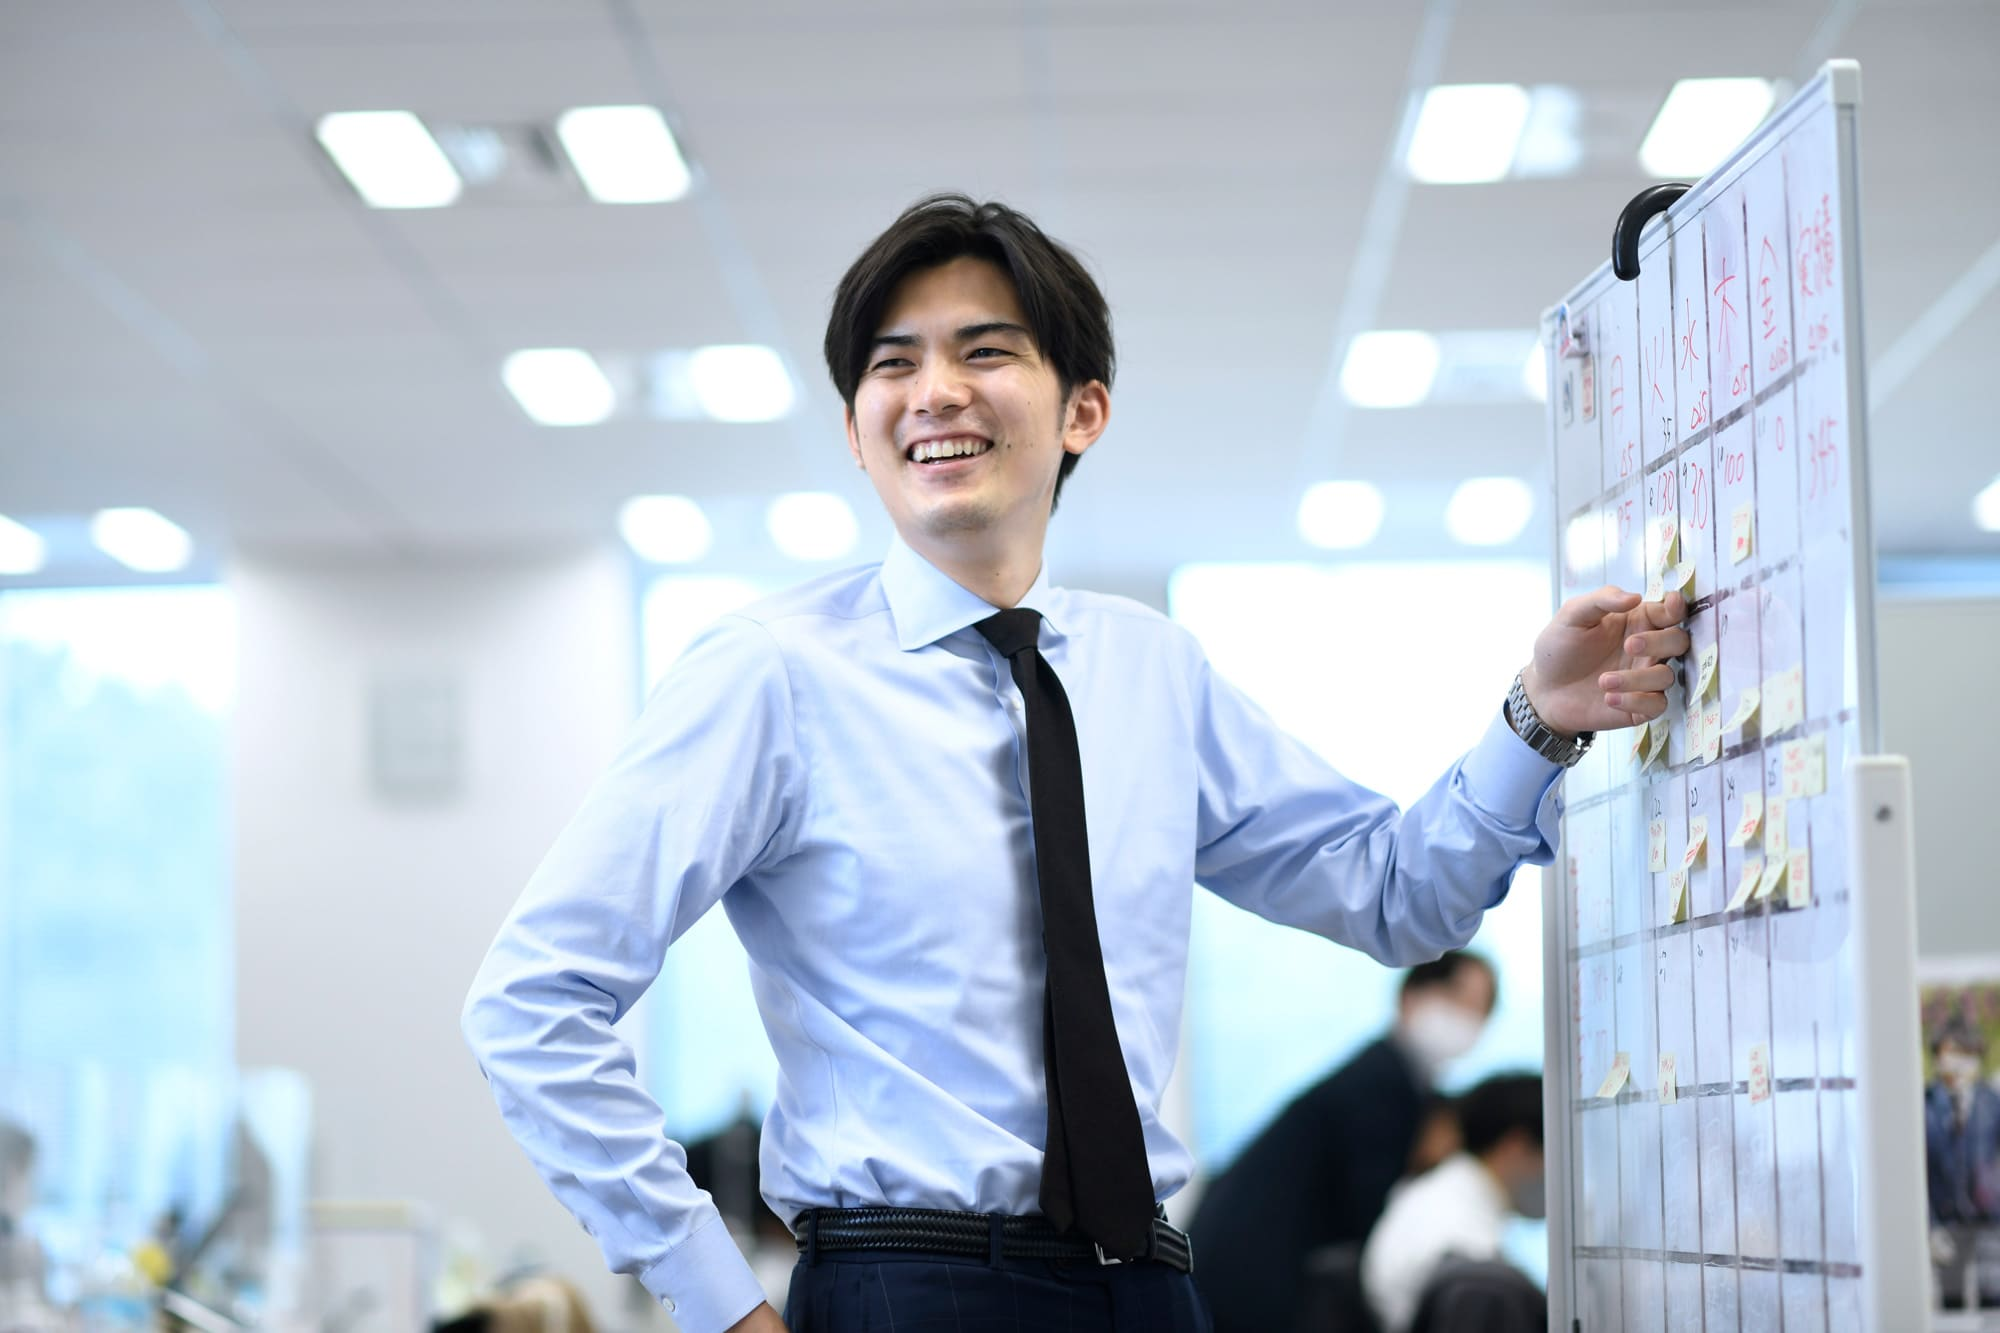
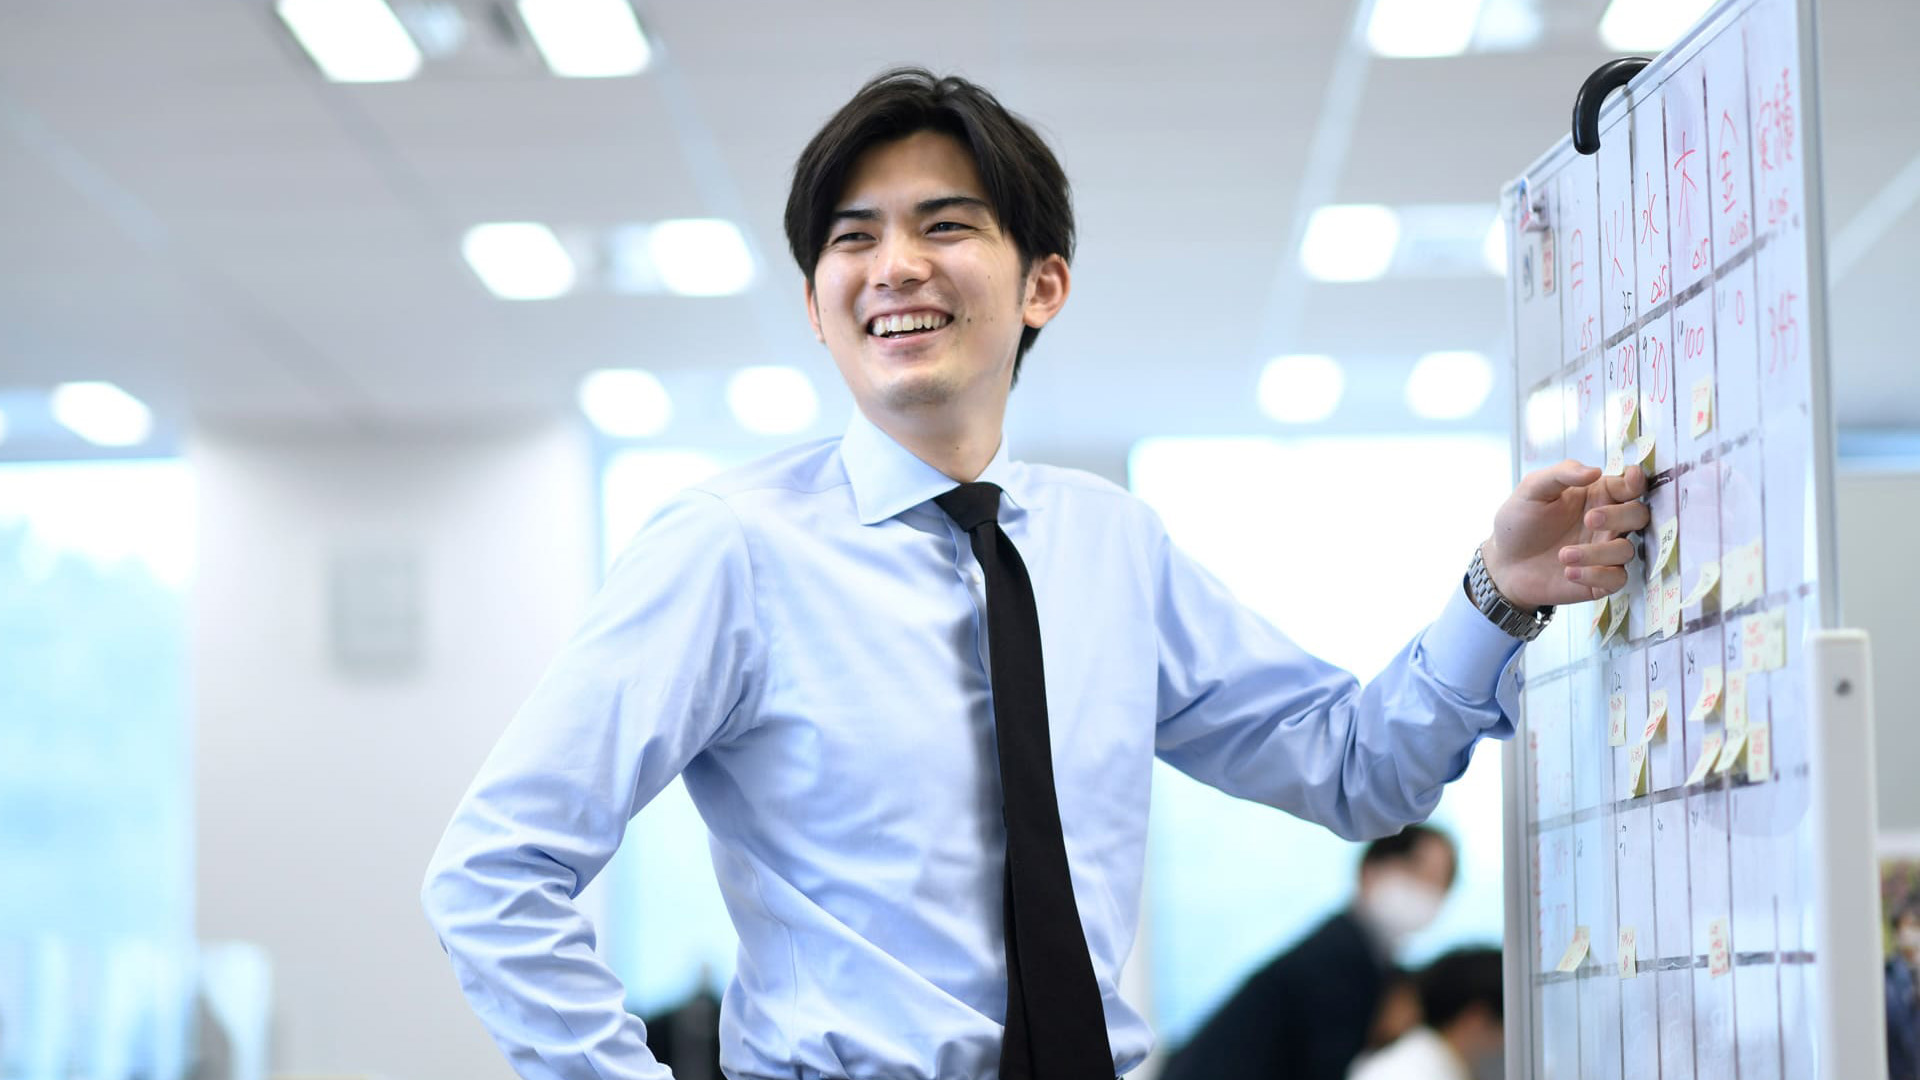
画像サイズ調整

diff --git a/pages/index.js b/pages/index.js
@@ -12,14 +12,14 @@ export default function Home(props) {
   const enp = props.enp;
   return (
     <>
-        <title>TOP|CDC新卒採用</title>
+      <title>TOP|CDC新卒採用</title>
       <Header />
       <div>
         <div className="w-[100%] h-auto relative ">
           <Image
             src={TOP[1].mein}
-            width={2000}
-            height={1333}
+            width={1920}
+            height={1080}
             alt={TOP[1].alt}
             className=" w-[100%] h-auto "
           />
@@ -76,12 +76,7 @@ export default function Home(props) {
         <h1 className="text-[30px] text-center font-bold mt-[60px] mb-[30px] md:mb-[60px] mb:text-[34px] lg:my-[120px] lg:text-[40px]">
           {TOP[3].h1}
         </h1>
-        <Image
-          src={TOP[3].image}
-          width={2000}
-          height={1333}
-          alt={TOP[3].alt}
-        />
+        <Image src={TOP[3].image} width={2000} height={1333} alt={TOP[3].alt} />
         <section>
           <h2 className="text-[20px] text-center text-black font-bold md:text-[24px] lg:text-[30px]">
             {TOP[3].h2}
@@ -281,15 +276,12 @@ export default function Home(props) {
               height={35}
               alt="ボタン"
             />
-            <p className="text-base font-bold lg:text-[20px] ">{TOP[3].button_p}</p>
+            <p className="text-base font-bold lg:text-[20px] ">
+              {TOP[3].button_p}
+            </p>
           </Link>
         </section>
-        <Image
-          src={TOP[4].image}
-          width={2000}
-          height={1333}
-          alt={TOP[4].alt}
-        />
+        <Image src={TOP[4].image} width={2000} height={1333} alt={TOP[4].alt} />
         <section>
           <h2 className="text-[20px] lg:text-[30px] mb-[60px] text-center text-black font-bold  md:text-[24px]">
             {TOP[4].h2}
